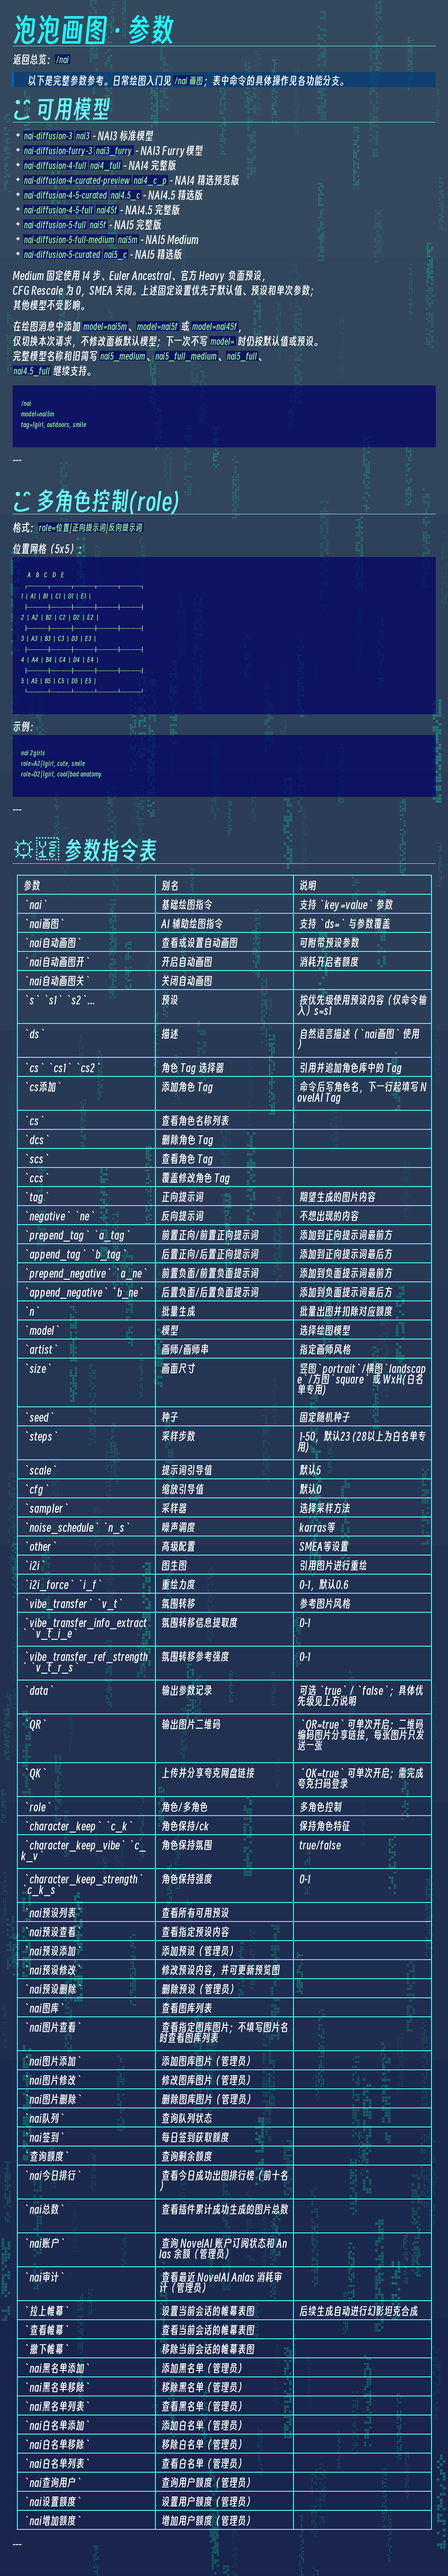
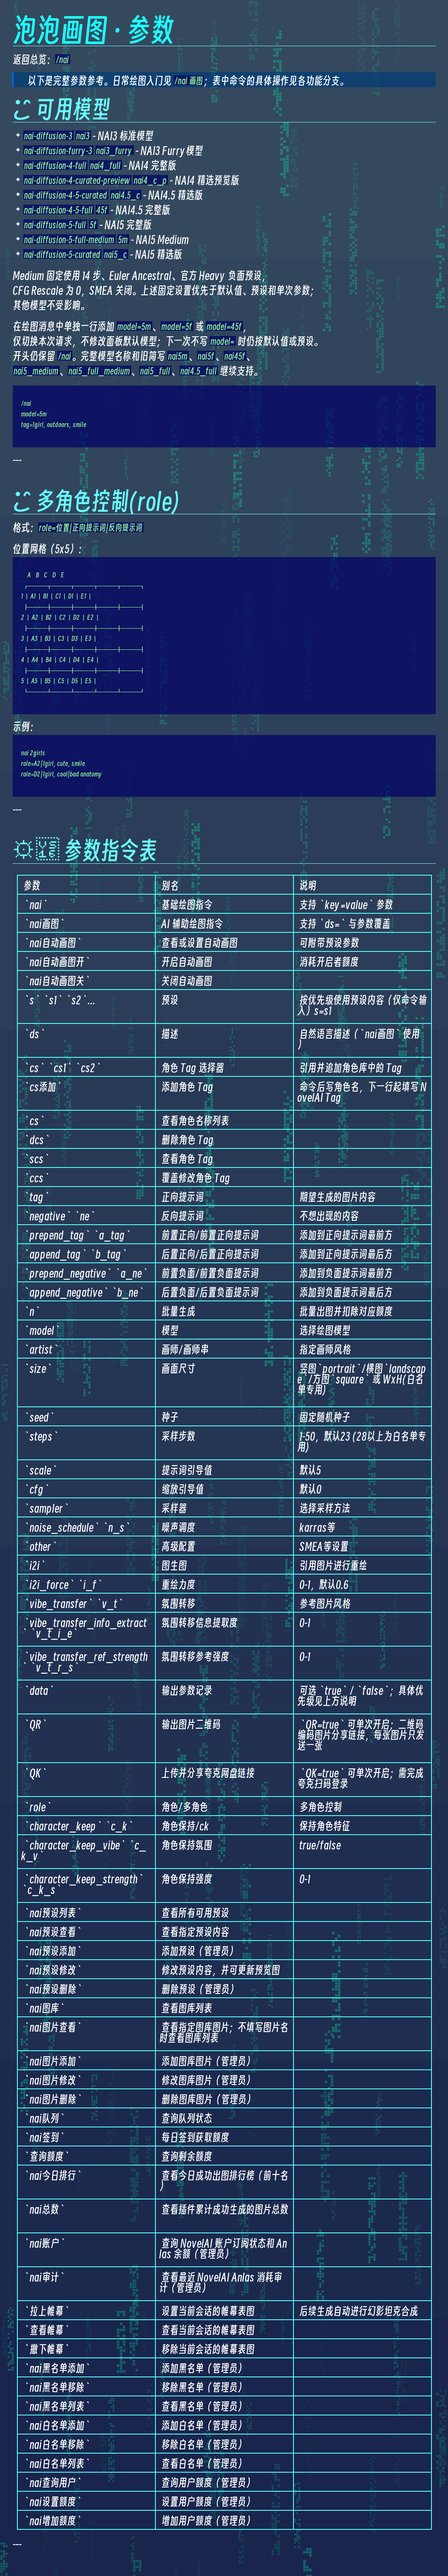
feat: add prefix-free chat model aliases

diff --git a/src/params.py b/src/params.py
@@ -290,10 +290,13 @@ MODEL_ALIAS_MAP = {
     "nai4_full": "nai-diffusion-4-full",
     "nai4_c_p": "nai-diffusion-4-curated-preview",
     "nai4.5_c": "nai-diffusion-4-5-curated",
+    "45f": "nai-diffusion-4-5-full",
     "nai45f": "nai-diffusion-4-5-full",
     "nai4.5_full": "nai-diffusion-4-5-full",
+    "5f": "nai-diffusion-5-full",
     "nai5f": "nai-diffusion-5-full",
     "nai5_full": "nai-diffusion-5-full",
+    "5m": "nai-diffusion-5-full-medium",
     "nai5m": "nai-diffusion-5-full-medium",
     "nai5_medium": "nai-diffusion-5-full-medium",
     "nai5_full_medium": "nai-diffusion-5-full-medium",
@@ -383,8 +386,9 @@ async def start_process(
     "model",
     ["模型"],
     lambda ctx: (
-        "聊天简写：model=nai5m（V5 Medium）、model=nai5f（V5 Full）、"
-        "model=nai45f（V4.5 Full）；仅切换本次请求，不修改默认模型。\n\n"
+        "聊天简写：model=5m（V5 Medium）、model=5f（V5 Full）、"
+        "model=45f（V4.5 Full）；model= 单独一行，仅切换本次请求，"
+        "不修改默认模型。nai5m、nai5f、nai45f 等原有简写继续支持。\n\n"
         f"有这些模型可选：\n\n{format_list(AVAILABLE_MODELS, AVAILABLE_MODEL_NAME_MAP)}"
     ),
 )

diff --git a/tests/test_model_aliases.py b/tests/test_model_aliases.py
@@ -9,6 +9,9 @@ from src.models import NAI5_MEDIUM_MODEL
 from src.params import parse_req
 
 SHORT_MODELS = [
+    ("5m", NAI5_MEDIUM_MODEL, 14),
+    ("5f", "nai-diffusion-5-full", 23),
+    ("45f", "nai-diffusion-4-5-full", 23),
     ("nai5m", NAI5_MEDIUM_MODEL, 14),
     ("nai5f", "nai-diffusion-5-full", 23),
     ("nai45f", "nai-diffusion-4-5-full", 23),
@@ -53,8 +56,9 @@ def test_direct_short_alias_overrides_preset_model(alias: str, model: str, steps
     assert req.tag == "preset"
 
 
-def test_short_alias_preserves_model_permission():
+@pytest.mark.parametrize("alias", [alias for alias, _, _ in SHORT_MODELS])
+def test_short_alias_preserves_model_permission(alias: str):
     config = Config()
     config.permission.whitelist_only_fields = ["model"]
     with pytest.raises(ValueError, match="白名单"):
-        asyncio.run(parse_req("model=nai5m\ntag=test", [], config))
+        asyncio.run(parse_req(f"model={alias}\ntag=test", [], config))

diff --git a/tests/test_manual_help.py b/tests/test_manual_help.py
@@ -35,6 +35,9 @@ def test_exact_help_commands(message: str, topic: str):
     "/nai预设列表",
     "/nai 预设 tag=1girl",
     "/nai unknown-topic",
+    "/nai\nmodel=5m\ntag=1girl",
+    "/nai\nmodel=5f\ntag=1girl",
+    "/nai\nmodel=45f\ntag=1girl",
     "/nai\nmodel=nai5m\ntag=1girl",
     "/nai\nmodel=nai5f\ntag=1girl",
     "/nai\nmodel=nai45f\ntag=1girl",

diff --git a/docs/USAGE.md b/docs/USAGE.md
@@ -568,23 +568,23 @@ Vibe 输入原图缓存只保存输入图片用于排查，不会替代或绕过
 - `nai-diffusion-4-full` `nai4_full` - NAI4 完整版
 - `nai-diffusion-4-curated-preview` `nai4_c_p` - NAI4 精选预览版
 - `nai-diffusion-4-5-curated` `nai4.5_c` - NAI4.5 精选版
-- `nai-diffusion-4-5-full` `nai45f` - NAI4.5 完整版
-- `nai-diffusion-5-full` `nai5f` - NAI5 完整版
-- `nai-diffusion-5-full-medium` `nai5m` - NAI5 Medium
+- `nai-diffusion-4-5-full` `45f` - NAI4.5 完整版
+- `nai-diffusion-5-full` `5f` - NAI5 完整版
+- `nai-diffusion-5-full-medium` `5m` - NAI5 Medium
 - `nai-diffusion-5-curated` `nai5_c` - NAI5 精选版
 
 Medium 固定使用 14 步、Euler Ancestral、官方 Heavy 负面预设，
 CFG Rescale 为 0，SMEA 关闭。上述固定设置优先于默认值、预设和单次参数；
 其他模型不受影响。
 
-在绘图消息中添加 `model=nai5m`、`model=nai5f` 或 `model=nai45f`，
+在绘图消息中单独一行添加 `model=5m`、`model=5f` 或 `model=45f`，
 仅切换本次请求，不修改面板默认模型；下一次不写 `model=` 时仍按默认值或预设。
-完整模型名称和旧简写 `nai5_medium`、`nai5_full_medium`、`nai5_full`、
-`nai4.5_full` 继续支持。
+开头仍保留 `/nai`。完整模型名称和旧简写 `nai5m`、`nai5f`、`nai45f`、
+`nai5_medium`、`nai5_full_medium`、`nai5_full`、`nai4.5_full` 继续支持。
 
 ```
 /nai
-model=nai5m
+model=5m
 tag=1girl, outdoors, smile
 ```
 

diff --git a/docs/branch_help_assets/params.md b/docs/branch_help_assets/params.md
@@ -11,23 +11,23 @@
 - `nai-diffusion-4-full` `nai4_full` - NAI4 完整版
 - `nai-diffusion-4-curated-preview` `nai4_c_p` - NAI4 精选预览版
 - `nai-diffusion-4-5-curated` `nai4.5_c` - NAI4.5 精选版
-- `nai-diffusion-4-5-full` `nai45f` - NAI4.5 完整版
-- `nai-diffusion-5-full` `nai5f` - NAI5 完整版
-- `nai-diffusion-5-full-medium` `nai5m` - NAI5 Medium
+- `nai-diffusion-4-5-full` `45f` - NAI4.5 完整版
+- `nai-diffusion-5-full` `5f` - NAI5 完整版
+- `nai-diffusion-5-full-medium` `5m` - NAI5 Medium
 - `nai-diffusion-5-curated` `nai5_c` - NAI5 精选版
 
 Medium 固定使用 14 步、Euler Ancestral、官方 Heavy 负面预设，
 CFG Rescale 为 0，SMEA 关闭。上述固定设置优先于默认值、预设和单次参数；
 其他模型不受影响。
 
-在绘图消息中添加 `model=nai5m`、`model=nai5f` 或 `model=nai45f`，
+在绘图消息中单独一行添加 `model=5m`、`model=5f` 或 `model=45f`，
 仅切换本次请求，不修改面板默认模型；下一次不写 `model=` 时仍按默认值或预设。
-完整模型名称和旧简写 `nai5_medium`、`nai5_full_medium`、`nai5_full`、
-`nai4.5_full` 继续支持。
+开头仍保留 `/nai`。完整模型名称和旧简写 `nai5m`、`nai5f`、`nai45f`、
+`nai5_medium`、`nai5_full_medium`、`nai5_full`、`nai4.5_full` 继续支持。
 
 ```
 /nai
-model=nai5m
+model=5m
 tag=1girl, outdoors, smile
 ```
 

diff --git a/README.md b/README.md
@@ -8,9 +8,10 @@
 
 ### V5 Medium
 
-聊天中用 `model=nai5m` 选择 Medium、`model=nai5f` 选择 V5 Full、
-`model=nai45f` 选择 V4.5 Full，仅覆盖本次请求，不修改默认模型。
-完整模型名称及原有简写继续支持。
+聊天中用 `model=5m` 选择 Medium、`model=5f` 选择 V5 Full、
+`model=45f` 选择 V4.5 Full，仅覆盖本次请求，不修改默认模型。
+`model=` 必须单独一行，开头的 `/nai` 绘图命令仍需保留。
+完整模型名称及 `nai5m`、`nai5f`、`nai45f` 等原有简写继续支持。
 插件会使用固定 14 步、Euler Ancestral、官方 Heavy 负面预设，
 并关闭 CFG Rescale 和 SMEA；这些固定设置优先于全局默认值、预设和单次参数。
 其他模型的默认值和参数行为保持不变。

diff --git a/docs/V5_MEDIUM.md b/docs/V5_MEDIUM.md
@@ -6,13 +6,14 @@
 
 ```text
 /nai
-model=nai5m
+model=5m
 tag=1girl, outdoors, smile
 ```
 
-完整模型 ID 为 `nai-diffusion-5-full-medium`，简写 `nai5m`、
+完整模型 ID 为 `nai-diffusion-5-full-medium`，简写 `5m`、`nai5m`、
 `nai5_medium`、`nai5_full_medium` 均可。
-聊天中使用 `model=nai5f` 选择 V5 Full，`model=nai45f` 选择 V4.5 Full。
+聊天中使用 `model=5f` 选择 V5 Full，`model=45f` 选择 V4.5 Full。
+`model=` 必须单独一行，开头仍保留 `/nai`；旧简写 `nai5f`、`nai45f` 继续支持。
 `model=` 仅覆盖本次请求，不修改默认模型；不写时仍使用默认值或预设。
 也可以在管理面板中设置默认模型，更新插件不会主动切换现有默认模型。
 

diff --git a/CHANGELOG.md b/CHANGELOG.md
@@ -1,5 +1,11 @@
 # CHANGELOG
 
+## v1.7.3（Saberafter fork，2026-10-21）
+
+- 新增聊天模型简写 `model=5m`、`model=5f`、`model=45f`，原有简写继续支持。
+- 同步参数帮助，明确 `model=` 单独一行、保留 `/nai`，仅覆盖本次请求。
+- 增加新旧简写的参数、权限、预设覆盖和帮助入口回归测试；不修改现有默认模型。
+
 ## v1.7.1（Saberafter fork，2026-10-21）
 
 - 迁入 VPS 上已有的分主题帮助，保留 `/nai` 总览、功能分支和 `/nai帮助`。
